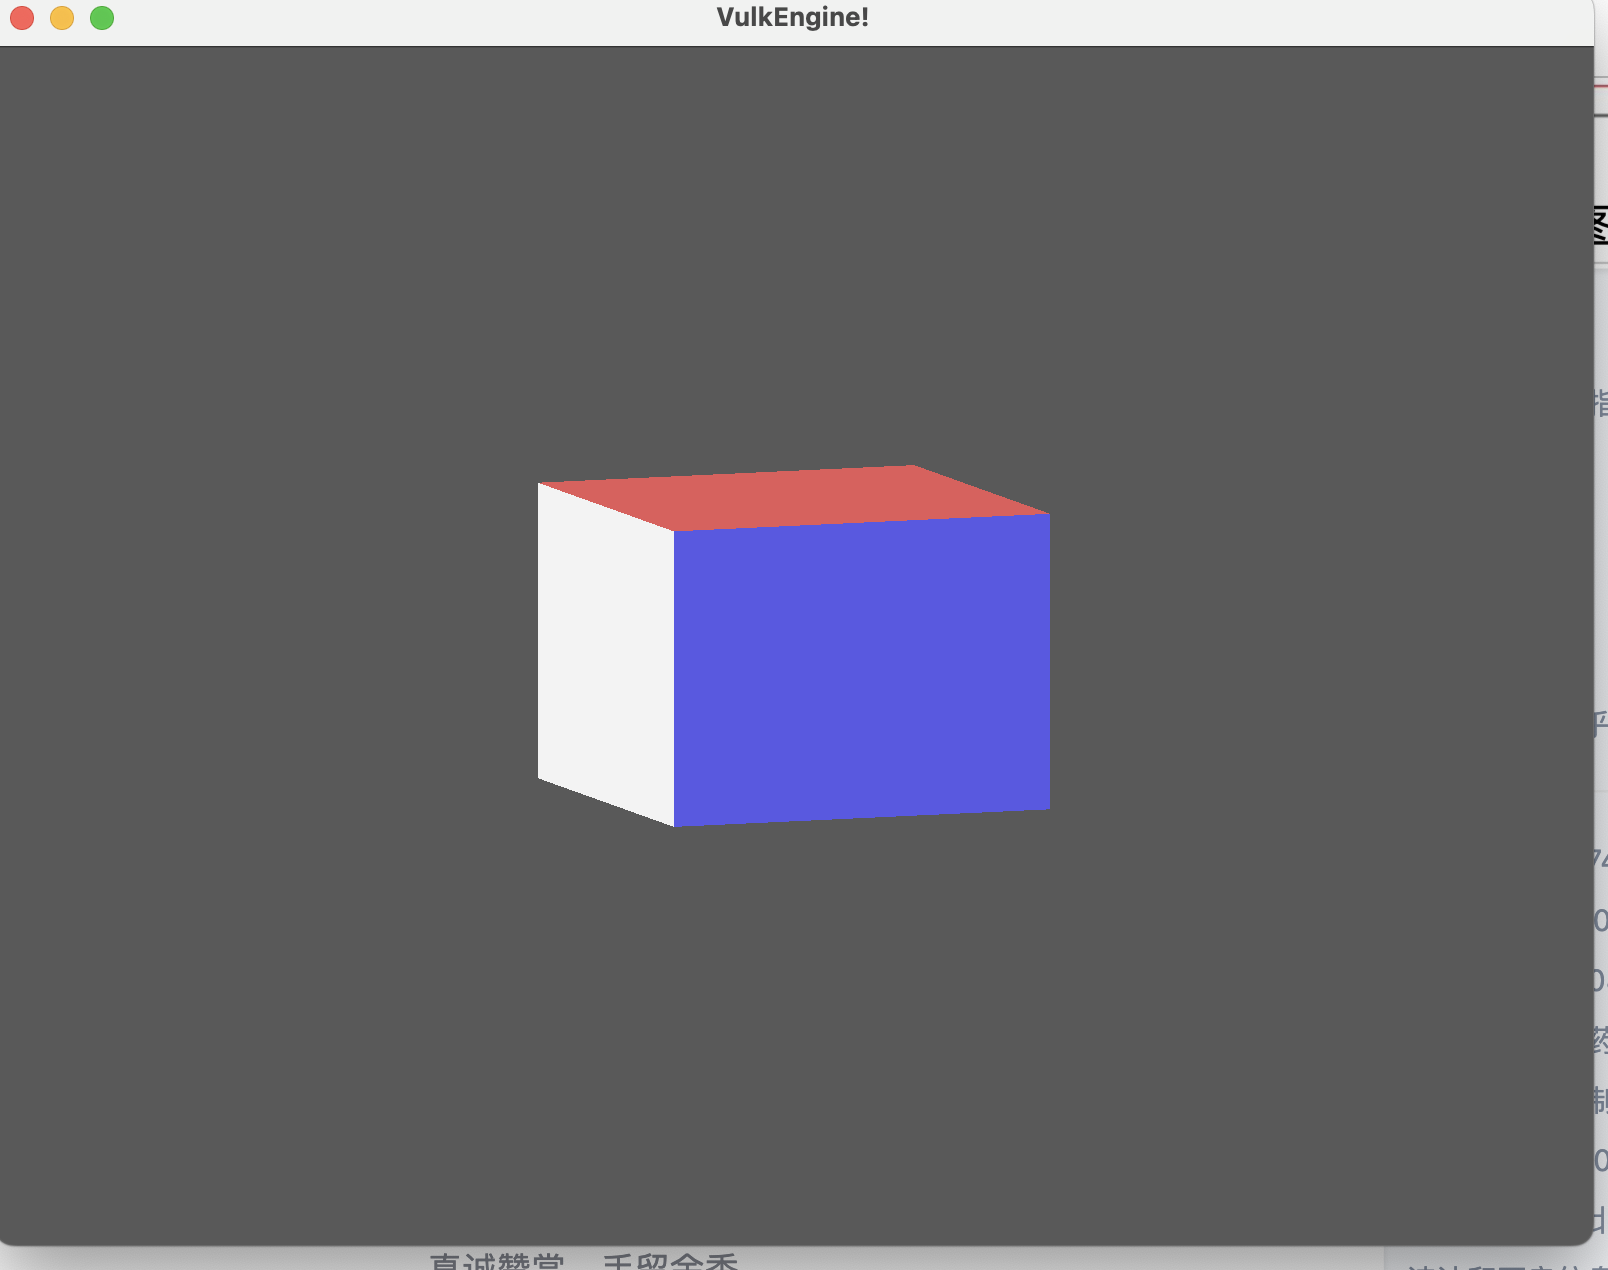
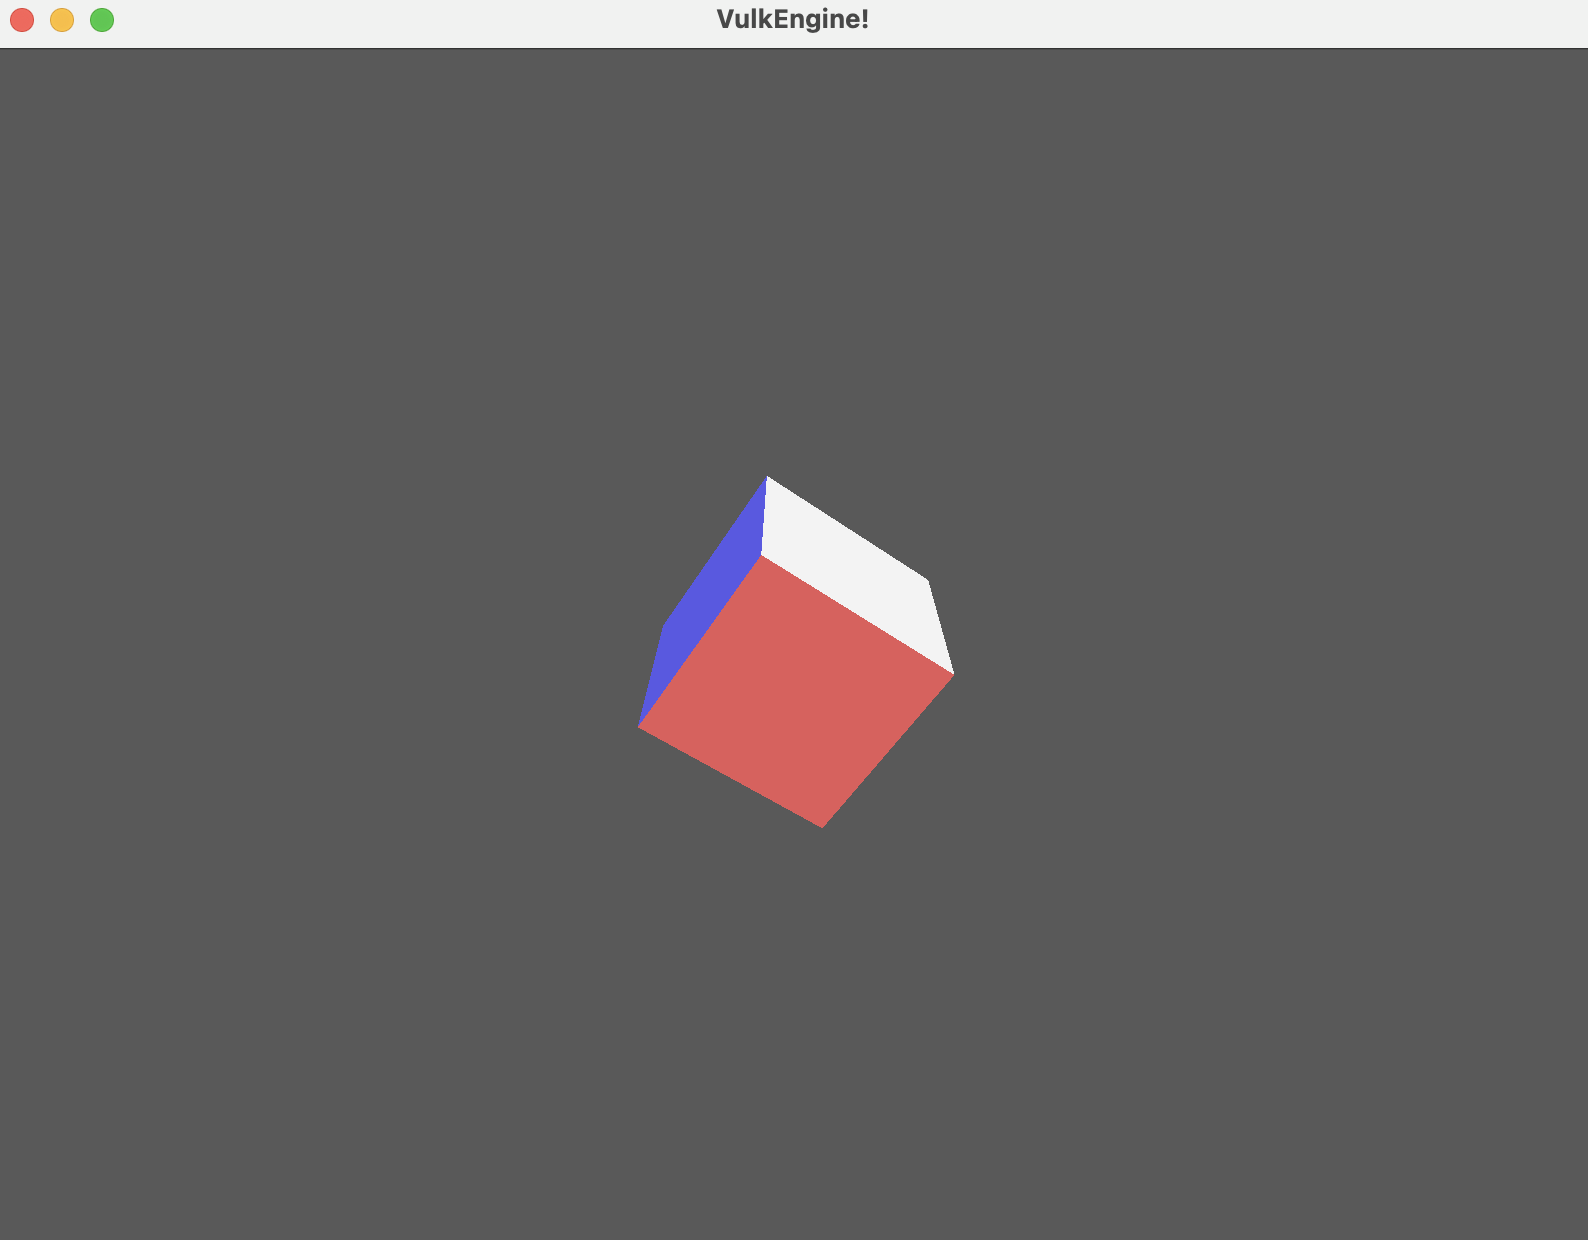
Ortho/Perspective Projection

Changed region(s): [[0.3086, 0.3677, 0.6788, 0.6742], [0.0, 0.0, 1.0, 1.0]]

diff --git a/src/Camera.cpp b/src/Camera.cpp
@@ -1,0 +1,30 @@
+#include "Camera.hpp"
+
+#include <cassert>
+#include <limits>
+
+const glm::mat4& Camera::getProjection() const {
+	return m_projectionMatrix;
+}
+
+void Camera::setOrthoProjection(
+	float left, float right, float top, float bottom, float near, float far) {
+  m_projectionMatrix = glm::mat4{1.0f};
+  m_projectionMatrix[0][0] = 2.f / (right - left);
+  m_projectionMatrix[1][1] = 2.f / (bottom - top);
+  m_projectionMatrix[2][2] = 1.f / (far - near);
+  m_projectionMatrix[3][0] = -(right + left) / (right - left);
+  m_projectionMatrix[3][1] = -(bottom + top) / (bottom - top);
+  m_projectionMatrix[3][2] = -near / (far - near);
+}
+ 
+void Camera::setPerspectProjection(float fovy, float aspect, float near, float far) {
+  assert(glm::abs(aspect - std::numeric_limits<float>::epsilon()) > 0.0f);
+  const float tanHalfFovy = tan(fovy / 2.f);
+  m_projectionMatrix = glm::mat4{0.0f};
+  m_projectionMatrix[0][0] = 1.f / (aspect * tanHalfFovy);
+  m_projectionMatrix[1][1] = 1.f / (tanHalfFovy);
+  m_projectionMatrix[2][2] = far / (far - near);
+  m_projectionMatrix[2][3] = 1.f;
+  m_projectionMatrix[3][2] = -(far * near) / (far - near);
+}

diff --git a/src/Application.cpp b/src/Application.cpp
@@ -21,12 +21,18 @@ void Application::run() {
 	
 	SimpleRenderSystem simpleRenderSystem {m_device, m_renderer.getSwapChainRenderPass()};
 	
+	Camera camera{};
+	
 	while (!m_window.shouldClose()) {
 		glfwPollEvents();
 		
+		float aspect = m_renderer.getAspectRatio();
+//		camera.setOrthoProjection(-aspect, aspect, -1, 1, -1, 1); // right - left = aspect * (top - bottom)
+		camera.setPerspectProjection(glm::radians(60.f), aspect, 0.1f, 10.f);
+		
 		if (auto commandBuffer = m_renderer.beginFrame()) {
 			m_renderer.beginSwapChainRenderPass(commandBuffer);
-			simpleRenderSystem.renderGameObjects(commandBuffer, m_gameObjects);
+			simpleRenderSystem.renderGameObjects(commandBuffer, m_gameObjects, camera);
 			m_renderer.endSwapChainRenderPass(commandBuffer);
 			m_renderer.endFrame();
 		}
@@ -100,7 +106,7 @@ void Application::loadGameObject() {
    
 	auto cube = GameObject::createGameObject();
 	cube.model = model;
-	cube.transform.translation = {.0f, .0f, .5f};
+	cube.transform.translation = {.0f, .0f, 2.5f};
 	cube.transform.scale = {.5f, .5f, .5f};
 	
 	m_gameObjects.push_back(std::move(cube));

diff --git a/src/SimpleRenderSystem.cpp b/src/SimpleRenderSystem.cpp
@@ -58,7 +58,11 @@ void SimpleRenderSystem::createPipeline(VkRenderPass renderPass) {
 }
 
 
-void SimpleRenderSystem::renderGameObjects(VkCommandBuffer commandBuffer, std::vector<GameObject>& gameObjects) {
+void SimpleRenderSystem::renderGameObjects(
+	   VkCommandBuffer commandBuffer,
+	   std::vector<GameObject>& gameObjects,
+	   const Camera &camera){
+	
 	m_pipeline->bind(commandBuffer);
 	 
 	for (auto& obj : gameObjects) {
@@ -67,7 +71,7 @@ void SimpleRenderSystem::renderGameObjects(VkCommandBuffer commandBuffer, std::v
 		
 		SimplePushConstantData push {};
 		push.color = obj.color;
-		push.transform = obj.transform.mat4();
+		push.transform = camera.getProjection() * obj.transform.mat4();
 		
 		vkCmdPushConstants(
 		   commandBuffer,

diff --git a/include/SimpleRenderSystem.hpp b/include/SimpleRenderSystem.hpp
@@ -1,5 +1,6 @@
 #pragma once
 
+#include "Camera.hpp"
 #include "Pipeline.hpp"
 #include "Device.hpp"
 #include "GameObject.hpp"
@@ -15,7 +16,10 @@ public:
 	
 	SimpleRenderSystem(const SimpleRenderSystem&) = delete;
 	SimpleRenderSystem &operator=(const SimpleRenderSystem&) = delete;
-	void renderGameObjects(VkCommandBuffer commandBuffer, std::vector<GameObject>& gameObjects);
+	void renderGameObjects(
+		   VkCommandBuffer commandBuffer,
+		   std::vector<GameObject>& gameObjects,
+		   const Camera &camera);
 	
 private:
 	void createPipelineLayout();

diff --git a/include/Camera.hpp b/include/Camera.hpp
@@ -1,0 +1,16 @@
+#pragma once
+
+#define GLM_FORCE_RADIANS
+#define GLM_FORCE_DEPTH_ZERO_TO_ONE
+#include "glm/glm.hpp"
+
+class Camera {
+public:
+	void setOrthoProjection(float left, float right, float top, float bottom, float near, float far);
+	void setPerspectProjection(float fovy, float aspect, float near, float far);
+	
+	const glm::mat4& getProjection() const;
+
+private:
+	glm::mat4 m_projectionMatrix{1.f};
+};

diff --git a/src/Renderer.cpp b/src/Renderer.cpp
@@ -160,6 +160,10 @@ VkRenderPass Renderer::getSwapChainRenderPass() const {
 	return m_swapChain->getRenderPass();
 }
 
+float Renderer::getAspectRatio() {
+	return m_swapChain->extentAspectRatio();
+}
+
 VkCommandBuffer Renderer::getCurrentCommandBuffer() const {
 	assert(m_isFrameStarted && "Cannot get command buffer when frame not in progress");
 	return m_commandBuffers[m_currentFrameIndex];

diff --git a/include/Renderer.hpp b/include/Renderer.hpp
@@ -23,6 +23,7 @@ public:
 	
 	bool isFrameInProgress() const;
 	VkRenderPass getSwapChainRenderPass() const;
+	float getAspectRatio();
 	VkCommandBuffer getCurrentCommandBuffer() const;
 	int getFrameIndex() const;
 	

diff --git a/src/GameObject.cpp b/src/GameObject.cpp
@@ -1,8 +1,1 @@
-//
-//  GameObject.cpp
-//  VulkEngine
-//
-//  Created by Zhuohao He on 2024-04-25.
-//
-
 #include <GameObject.hpp>
